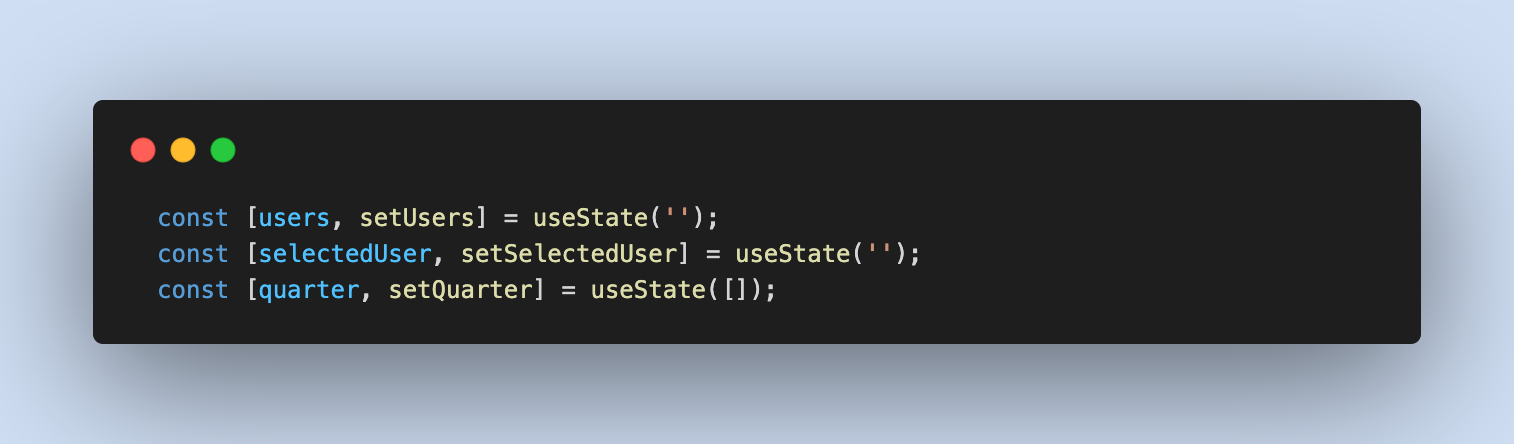
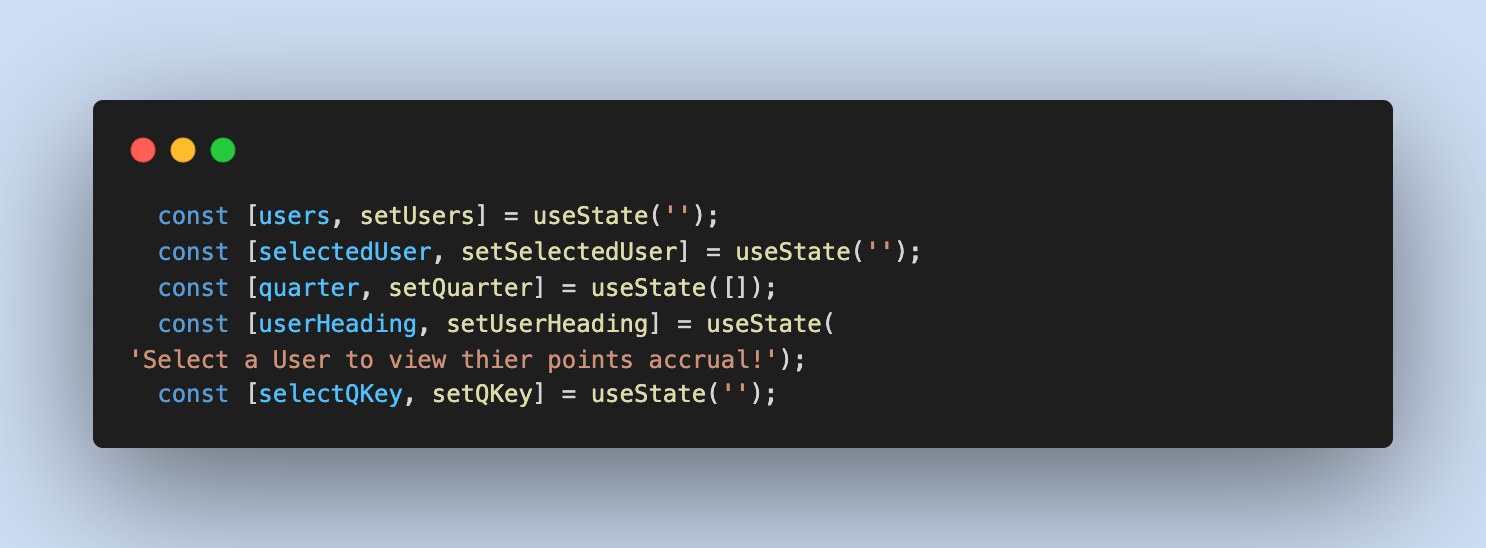
cleaned up various functions and fixed a bug where a new user could be selected with the old users quarterly values still rendered

diff --git a/client/src/App.js b/client/src/App.js
@@ -3,7 +3,6 @@ import './App.css';
 import getUsers from './utils/api';
 import UserSelect from './components/form/UserSelect';
 import QuarterSelect from './components/form/QuarterSelect';
-import H2 from './components/headers/H2';
 import getNames from './utils/usersFunctions';
 import Points from './components/display/Points';
 
@@ -11,6 +10,8 @@ function App() {
   const [users, setUsers] = useState('');
   const [selectedUser, setSelectedUser] = useState('');
   const [quarter, setQuarter] = useState([]);
+  const [userHeading, setUserHeading] = useState('Select a User to view thier points accrual!');
+  const [selectQKey, setQKey] = useState('');
   useEffect(() => {
     getUsers().then(
       json => setUsers(json.userData)
@@ -20,11 +21,17 @@ function App() {
   }, [])
   const updateSelected = (e) => {
     const selected = e.target.value.split(' ');
-    for (let i = 0; i < users.length; i++) {
-      if(users[i].firstName === selected[0]) {
-        setSelectedUser(users[i]);
+    users.map((user) => {
+      if(user.firstName === selected[0]) {
+        setSelectedUser(user);
+        setUserHeading(`Viewing points for ${user.username}.`)
+        setQuarter([])
+        setQKey(Math.random());
+      } else if (selected[0] === '') {
+        setSelectedUser('')
+        setUserHeading('Select a User to view thier points accrual!')
       }
-    }
+    })
   };
   const updateQuarter = (e) => {
     const selectedQuarter = e.target.value;
@@ -49,9 +56,9 @@ function App() {
   return (
     <>
       <h1>Points Tracker</h1>
-      <H2 name={selectedUser} />
+      <h2>{userHeading}</h2>
       <UserSelect name={getNames(users)} change={updateSelected} />
-      {selectedUser ? <QuarterSelect change={updateQuarter} /> : null}
+      {selectedUser ? <QuarterSelect QKey={selectQKey} change={updateQuarter} /> : null}
       <Points quarter={quarter} />
     </>
   );

diff --git a/client/src/components/display/Points.jsx b/client/src/components/display/Points.jsx
@@ -2,6 +2,7 @@ import React from 'react';
 import { getPoints } from '../../utils/usersFunctions';
 
 function Points(props) {
+    console.log(props.quarter)
     const points = [];
     const getPointData = (arr) => {
         points.push(getPoints(arr))
@@ -23,21 +24,24 @@ function Points(props) {
   return (
     <>
         <div>
-            {props.quarter.map((month, i) => {
-                let data = Object.entries(month)
-                return (
-                    <div key={i} className='points'>
-                        <p className='monthly-points'>
-                            {data[0][0]} points: {getPointData(data[0][1])}
-                        </p>
-                        <p className='purchases-label'>Purchases:</p>
-                        <p className='purchases'>
-                            {getPurchases(data[0][1])}
-                        </p>
-                    </div>
+            {props.quarter ? 
+                props.quarter.map((month, i) => {
+                    let data = Object.entries(month)
+                    return (
+                        <div key={i} className='points'>
+                            <p className='monthly-points'>
+                                {data[0][0]} points: {getPointData(data[0][1])}
+                            </p>
+                            <p className='purchases-label'>Purchases:</p>
+                            <p className='purchases'>
+                                {getPurchases(data[0][1])}
+                            </p>
+                        </div>
 
-                )
-            })}
+                    )
+                })
+                : null
+            }
         </div>
         {getPointTotal(points)}
     </>

diff --git a/client/src/components/form/UserSelect.jsx b/client/src/components/form/UserSelect.jsx
@@ -3,14 +3,12 @@ import React from 'react'
 function UserSelect(props) {
   return (
     <select name='users' id='users-select' onChange={props.change}>
-        <option value="">--Please select a user--</option>
-        {props.name.map((fullName) => {
-            return (
-                <option key={fullName} value={fullName}>
-                    {fullName}
-                </option>
-            )
-        })}
+      <option value="">--Please select a user--</option>
+      {props.name.map((fullName) => 
+        <option key={fullName} value={fullName}>
+          {fullName}
+        </option>
+      )}
     </select>
   )
 }

diff --git a/client/src/components/form/QuarterSelect.jsx b/client/src/components/form/QuarterSelect.jsx
@@ -1,9 +1,9 @@
 import React from 'react'
 
-function QuarterSelect(props) {
+function QuarterSelect({QKey, change}) {
   return (
-    <select name='quarter' id='quarter' onChange={props.change}>
-        <option value="">--What quarter would you like to view--</option>
+    <select key={QKey} name='quarter' id='quarter' onChange={change}>
+        <option value=''>--What quarter would you like to view--</option>
         <option value="Q1">January-March</option>
         <option value="Q2">April-June</option>
         <option value="Q3">July-September</option>

diff --git a/client/src/App.css b/client/src/App.css
@@ -42,7 +42,6 @@ select:focus {
 .points {
   display: grid;
   grid-template-columns: repeat(3, 1fr);
-  /* gap: 10px; */
   background-color: #d0cdc7;
   margin: 3vw;
   border-radius: 4px;
